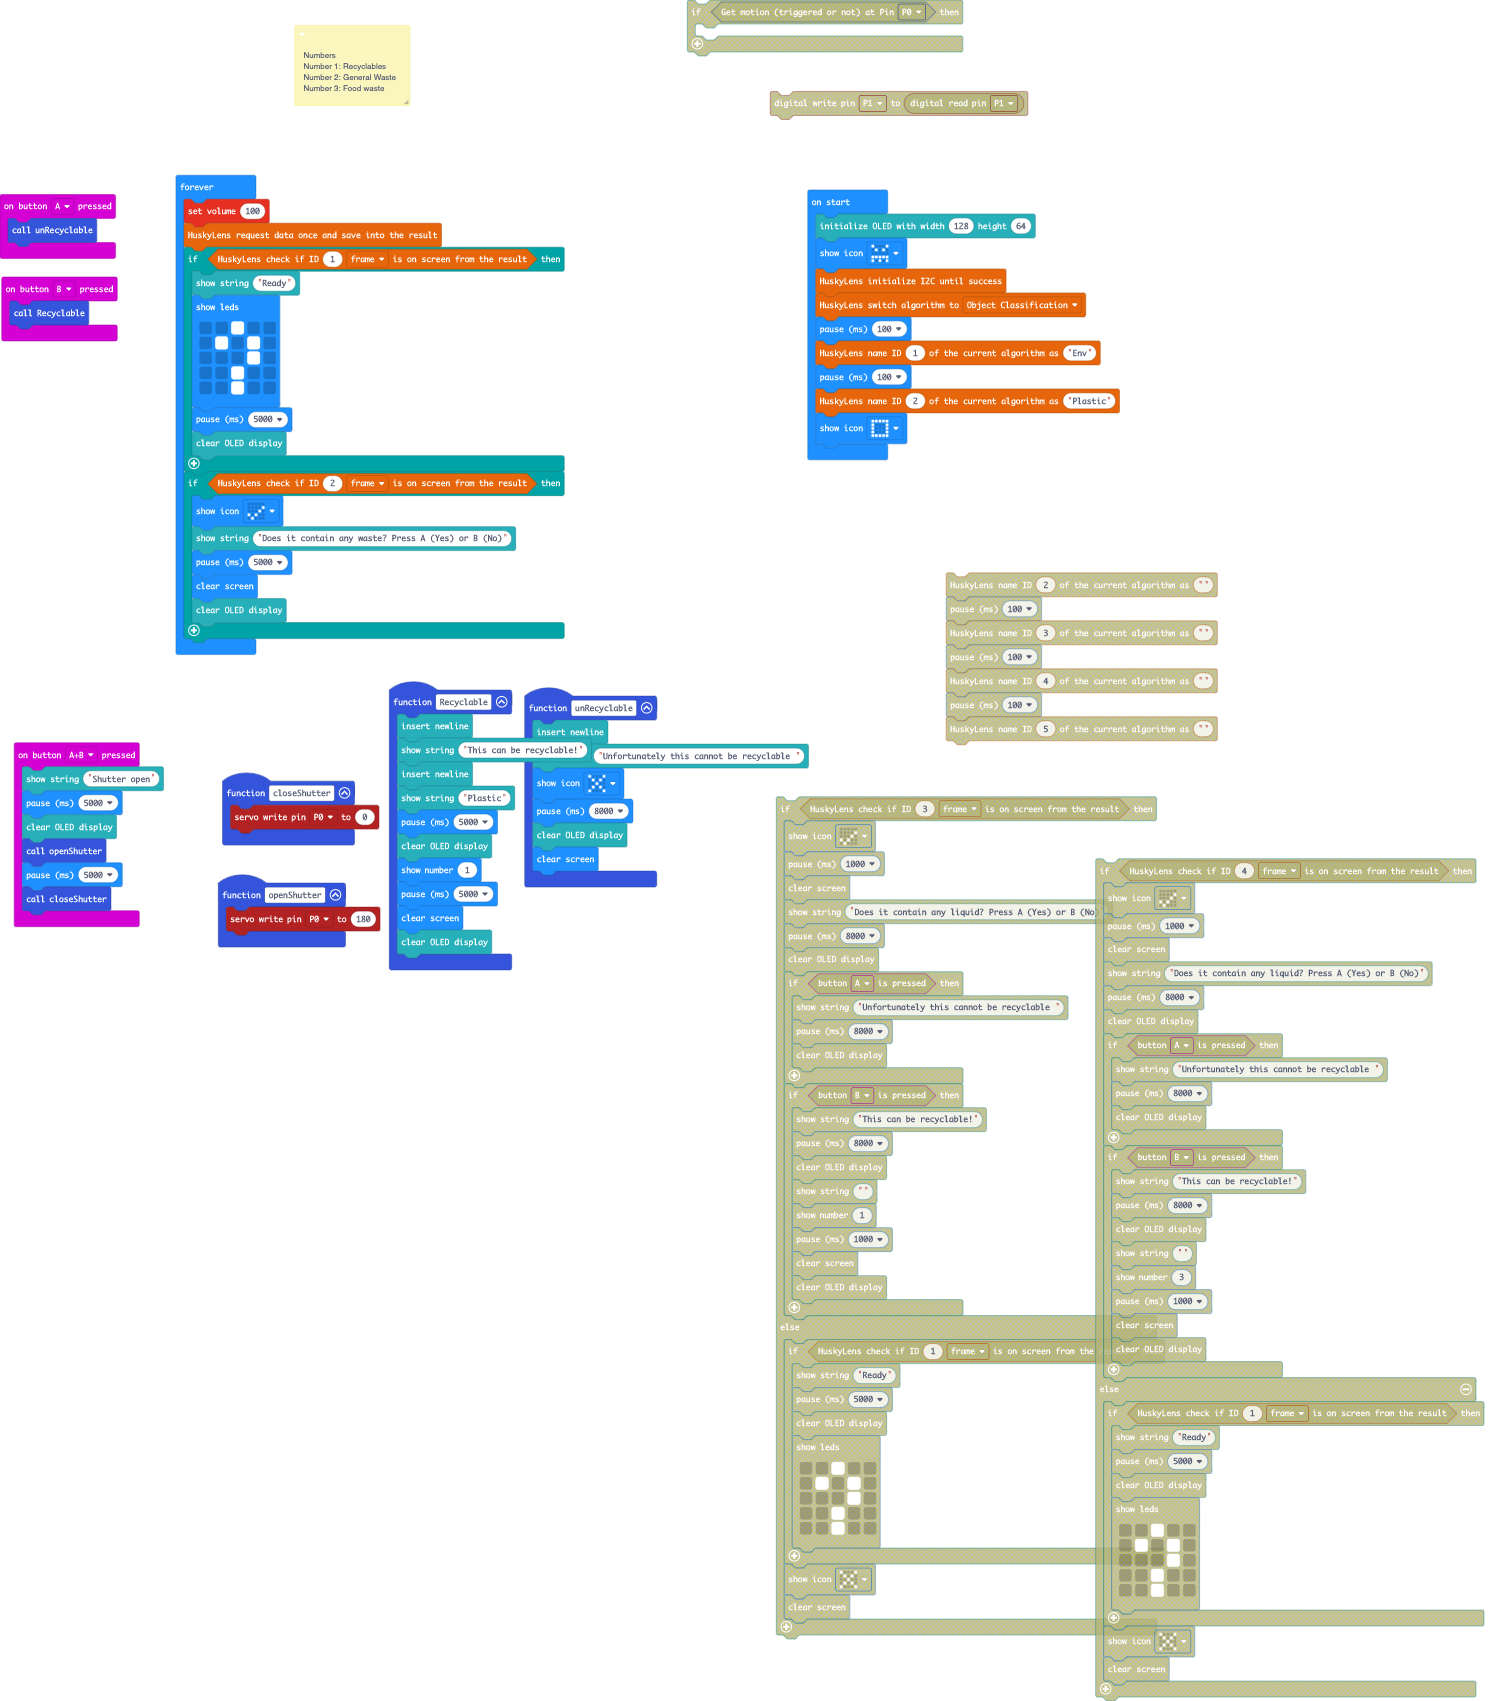
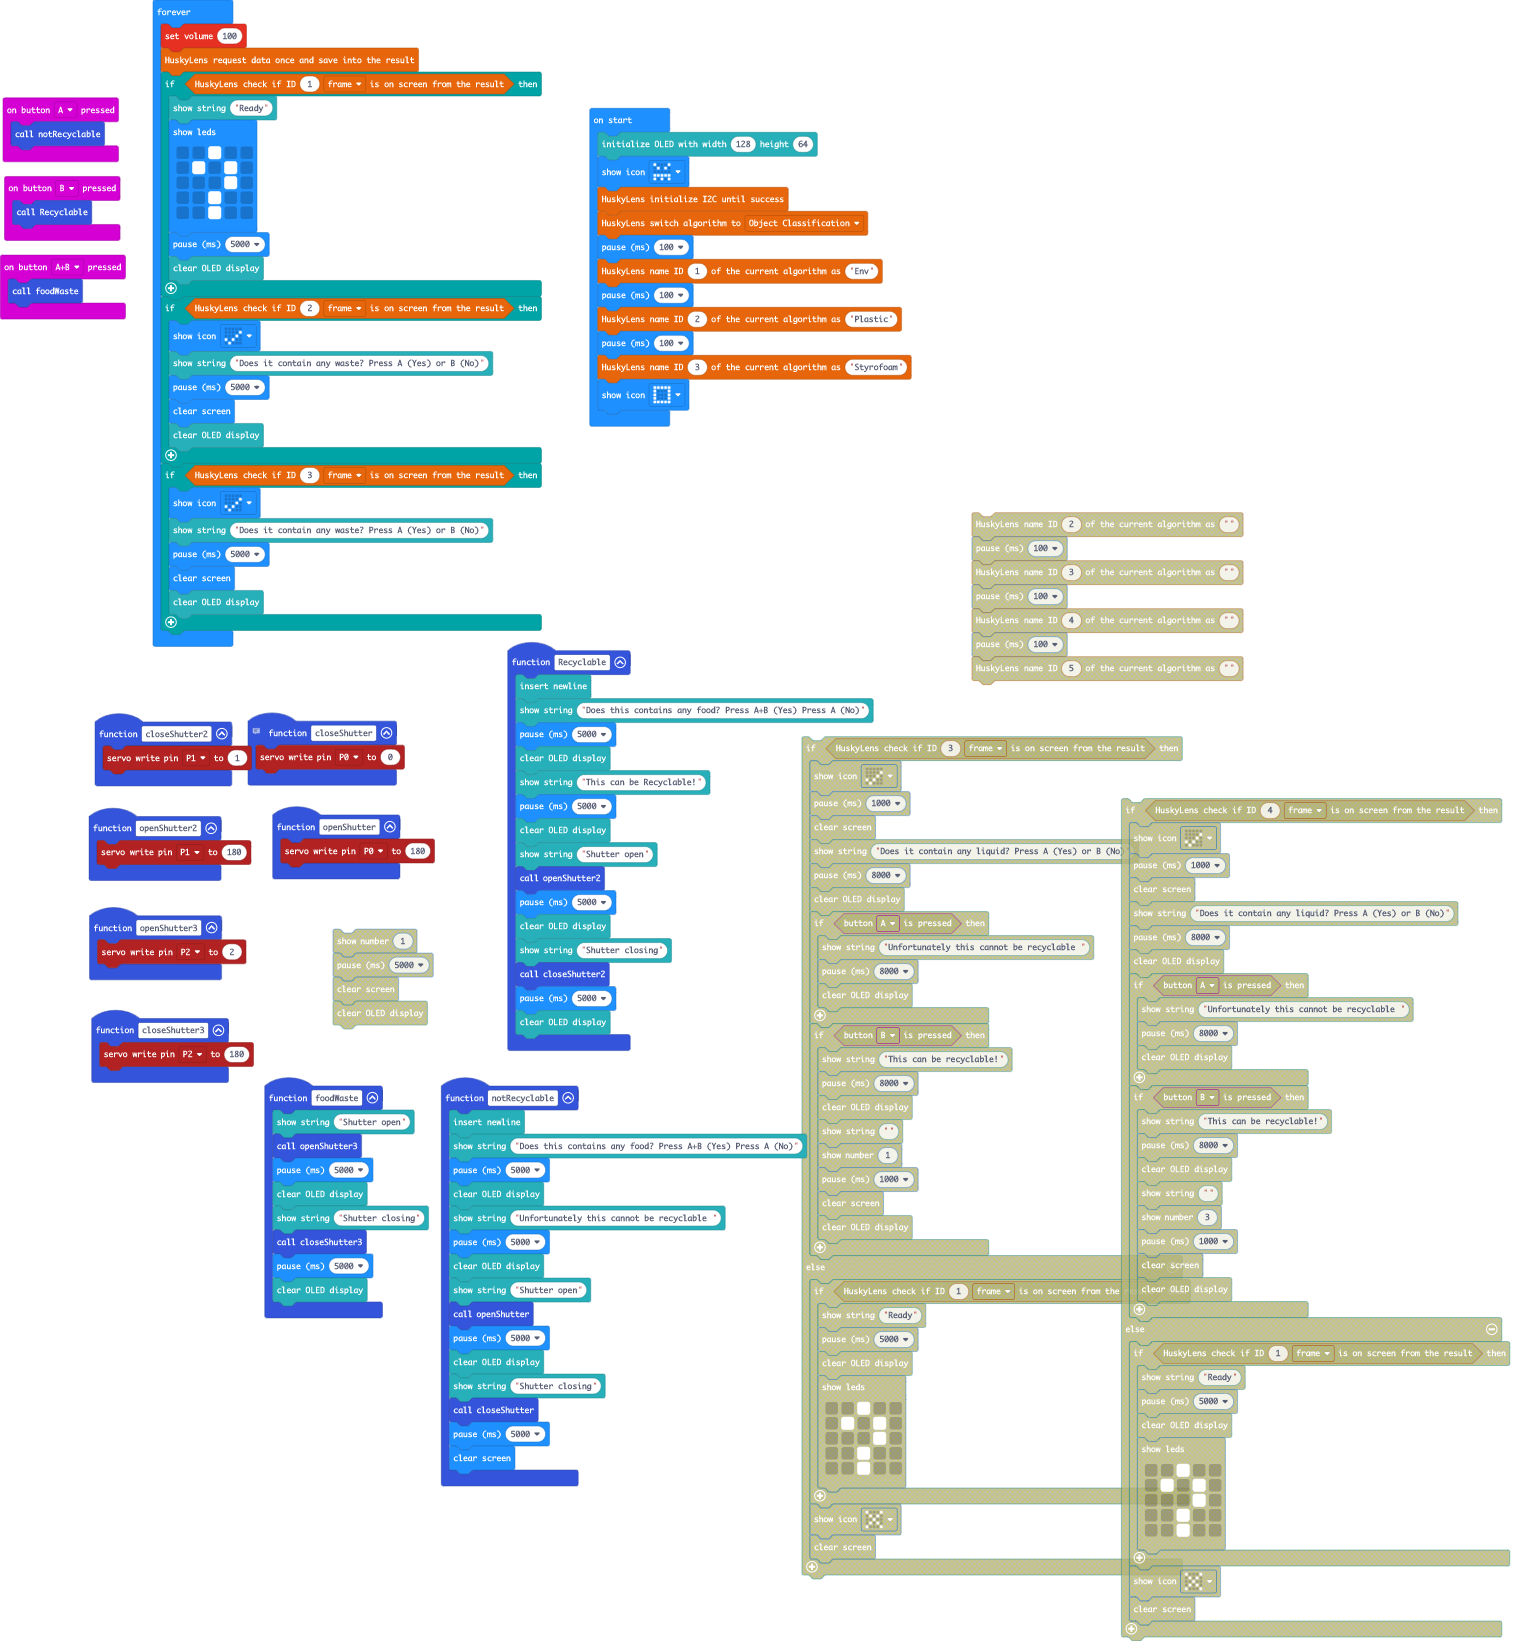
5:23PM Wednesday, 15 June

diff --git a/main.ts b/main.ts
@@ -1,51 +1,86 @@
-/**
- * Numbers
- * 
- * Number 1: Recyclables
- * 
- * Number 2: General Waste
- * 
- * Number 3: Food waste
- */
+// Numbers
+// 
+// Number 1: Recyclables
+// 
+// Number 2: General Waste
+// 
+// Number 3: Food waste
+// 
+// 
+// 
+// TODO: Adding sound
+// Check if it's recyclable (y: ask the empty food/liquid/wtv qn)
+// If not recyclable, ask: does it have food? (y: empty food waste)
 function closeShutter () {
     pins.servoWritePin(AnalogPin.P0, 0)
 }
-function unRecyclable () {
-    OLED.newLine()
-    OLED.writeStringNewLine("Unfortunately this cannot be recyclable ")
-    basic.showIcon(IconNames.No)
-    basic.pause(8000)
+function openShutter3 () {
+    pins.servoWritePin(AnalogPin.P2, 2)
+}
+function foodWaste () {
+    OLED.writeStringNewLine("Shutter open")
+    openShutter3()
+    basic.pause(5000)
     OLED.clear()
-    basic.clearScreen()
+    OLED.writeStringNewLine("Shutter closing")
+    closeShutter3()
+    basic.pause(5000)
+    OLED.clear()
 }
 input.onButtonPressed(Button.A, function () {
-    unRecyclable()
+    notRecyclable()
 })
-input.onButtonPressed(Button.AB, function () {
-    OLED.writeStringNewLine("Shutter open")
+function openShutter2 () {
+    pins.servoWritePin(AnalogPin.P1, 180)
+}
+function notRecyclable () {
+    OLED.newLine()
+    OLED.writeStringNewLine("Does this contains any food? Press A+B (Yes) Press A (No)")
     basic.pause(5000)
     OLED.clear()
+    OLED.writeStringNewLine("Unfortunately this cannot be recyclable ")
+    basic.pause(5000)
+    OLED.clear()
+    OLED.writeStringNewLine("Shutter open")
     openShutter()
     basic.pause(5000)
+    OLED.clear()
+    OLED.writeStringNewLine("Shutter closing")
     closeShutter()
+    basic.pause(5000)
+    basic.clearScreen()
+}
+input.onButtonPressed(Button.AB, function () {
+    foodWaste()
 })
 input.onButtonPressed(Button.B, function () {
     Recyclable()
 })
+function closeShutter2 () {
+    pins.servoWritePin(AnalogPin.P1, 1)
+}
 function openShutter () {
     pins.servoWritePin(AnalogPin.P0, 180)
 }
 function Recyclable () {
     OLED.newLine()
-    OLED.writeStringNewLine("This can be recyclable!")
-    OLED.newLine()
-    OLED.writeStringNewLine("Plastic")
+    OLED.writeStringNewLine("Does this contains any food? Press A+B (Yes) Press A (No)")
     basic.pause(5000)
     OLED.clear()
-    basic.showNumber(1)
+    OLED.writeStringNewLine("This can be Recyclable!")
     basic.pause(5000)
-    basic.clearScreen()
     OLED.clear()
+    OLED.writeStringNewLine("Shutter open")
+    openShutter2()
+    basic.pause(5000)
+    OLED.clear()
+    OLED.writeStringNewLine("Shutter closing")
+    closeShutter2()
+    basic.pause(5000)
+    OLED.clear()
+}
+function closeShutter3 () {
+    pins.servoWritePin(AnalogPin.P2, 180)
 }
 OLED.init(128, 64)
 basic.showIcon(IconNames.Angry)
@@ -55,6 +90,8 @@ basic.pause(100)
 huskylens.writeName(1, "Env")
 basic.pause(100)
 huskylens.writeName(2, "Plastic")
+basic.pause(100)
+huskylens.writeName(3, "Styrofoam")
 basic.showIcon(IconNames.Square)
 basic.forever(function () {
     music.setVolume(100)
@@ -72,6 +109,13 @@ basic.forever(function () {
         OLED.clear()
     }
     if (huskylens.isAppear(2, HUSKYLENSResultType_t.HUSKYLENSResultBlock)) {
+        basic.showIcon(IconNames.Yes)
+        OLED.writeStringNewLine("Does it contain any waste? Press A (Yes) or B (No)")
+        basic.pause(5000)
+        basic.clearScreen()
+        OLED.clear()
+    }
+    if (huskylens.isAppear(3, HUSKYLENSResultType_t.HUSKYLENSResultBlock)) {
         basic.showIcon(IconNames.Yes)
         OLED.writeStringNewLine("Does it contain any waste? Press A (Yes) or B (No)")
         basic.pause(5000)
